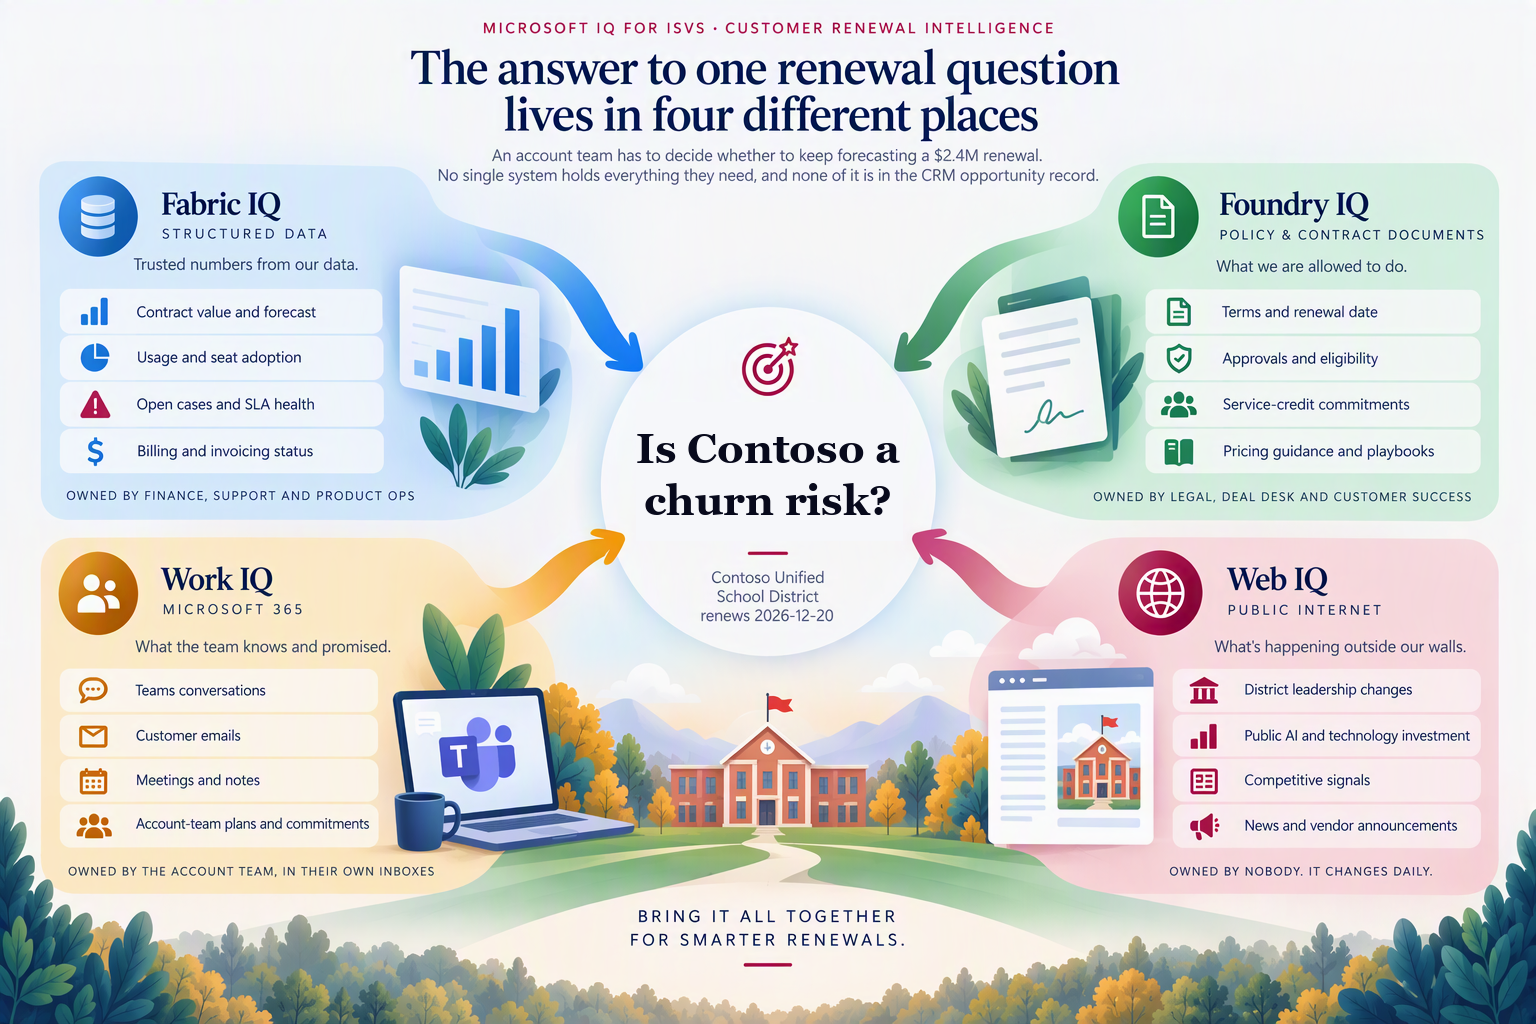
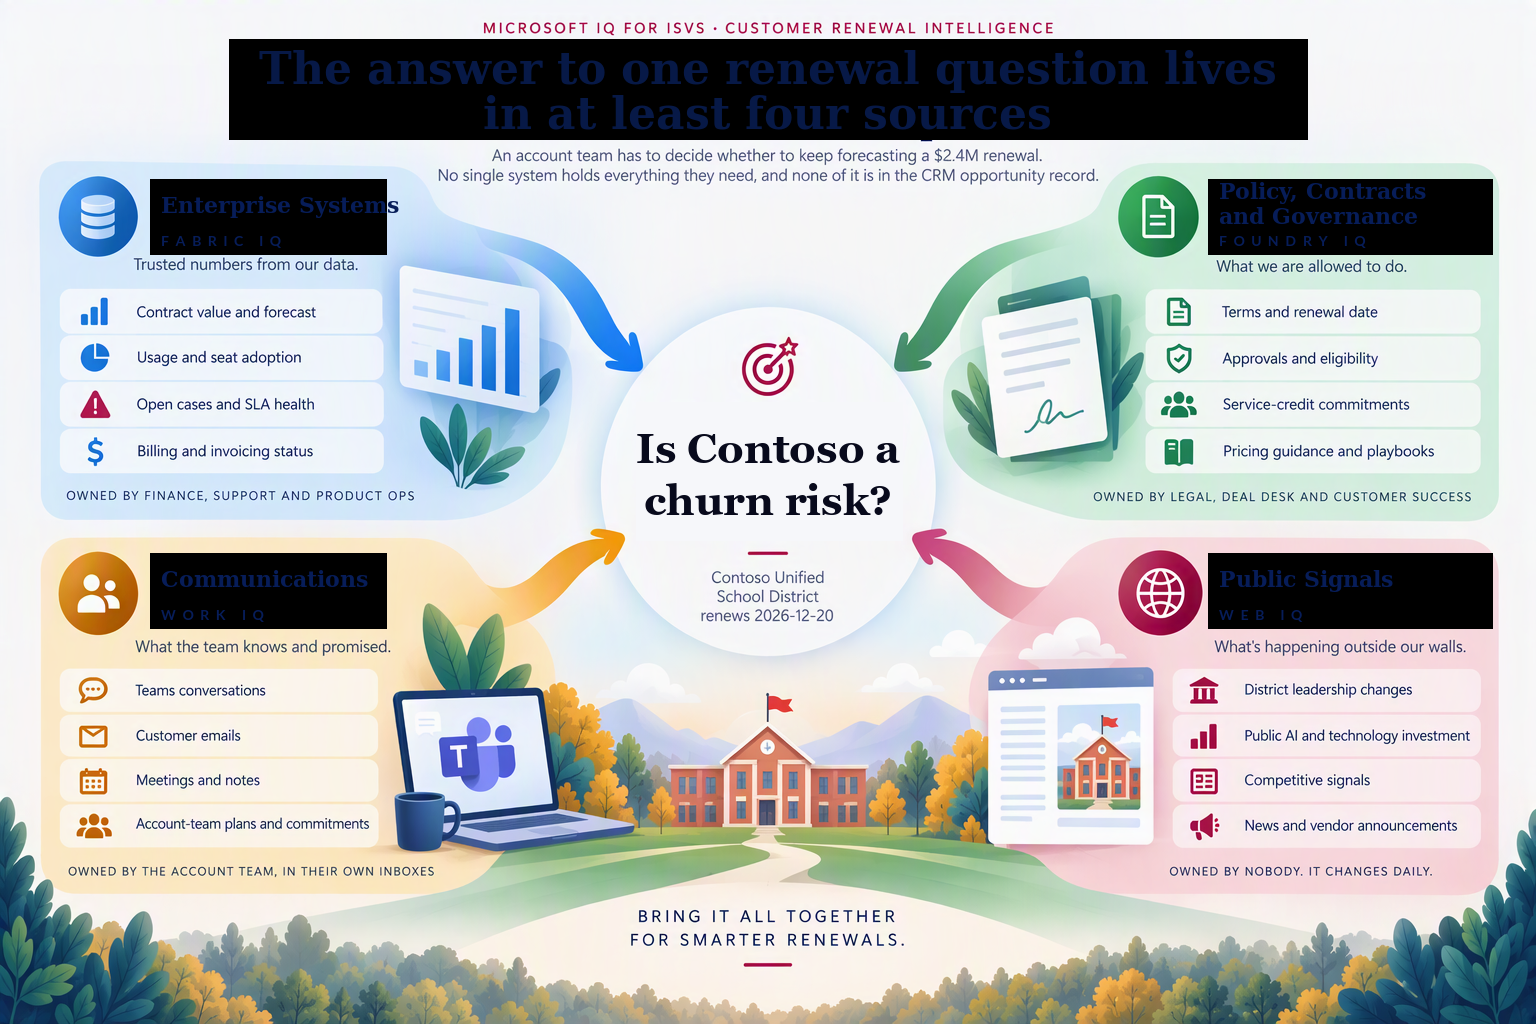
Update main graphic source labels

Changed region(s): [[0.0938, 0.0312, 1.0, 0.25], [0.7812, 0.5312, 1.0, 0.625], [0.0938, 0.5312, 0.25, 0.625]]

diff --git a/docs/isv-why-it-matters.html b/docs/isv-why-it-matters.html
@@ -169,7 +169,7 @@ h1 { font-size: 1.9rem; margin: 0.3rem 0 0.4rem; }
 <body>
 <div class="wrap">
   <div class="eyebrow">Microsoft IQ for ISVs · Customer renewal intelligence</div>
-  <h1>The answer to one renewal question lives in four different places</h1>
+  <h1>The answer to one renewal question lives in at least four sources</h1>
   <p class="sub">
     An account team has to decide whether to increase the forecast on a $2.4M renewal. No single system holds
     everything they need, and none of it is in the CRM opportunity record.
@@ -188,8 +188,8 @@ h1 { font-size: 1.9rem; margin: 0.3rem 0 0.4rem; }
 
   <div class="grid">
     <section class="card">
-      <h2>Fabric IQ</h2>
-      <span class="where">Fabric Lakehouse · structured data</span>
+      <h2>Enterprise Systems</h2>
+      <span class="where">Fabric IQ</span>
       <p class="role">What the numbers say: contract value, usage, support and billing.</p>
       <ul class="facts">
         <li><b>ARR $2.4M</b>, forecast <b>$2.2M</b></li>
@@ -202,8 +202,8 @@ h1 { font-size: 1.9rem; margin: 0.3rem 0 0.4rem; }
     </section>
 
     <section class="card">
-      <h2>Foundry IQ</h2>
-      <span class="where">Policy &amp; contract documents</span>
+      <h2>Policy, Contracts and Governance</h2>
+      <span class="where">Foundry IQ</span>
       <p class="role">What we are allowed to do: terms, approvals and playbooks.</p>
       <ul class="facts">
         <li>Contract: notice date, <b>uptime SLA</b>, service-credit eligibility</li>
@@ -216,8 +216,8 @@ h1 { font-size: 1.9rem; margin: 0.3rem 0 0.4rem; }
     </section>
 
     <section class="card">
-      <h2>Work IQ</h2>
-      <span class="where">Microsoft 365 · mail, meetings, Teams</span>
+      <h2>Communications</h2>
+      <span class="where">Work IQ</span>
       <p class="role">What the team knows and promised: the context nobody logs in CRM.</p>
       <ul class="facts">
         <li>Renewal forecast <b>huddle</b> meeting (2026-10-12)</li>
@@ -229,8 +229,8 @@ h1 { font-size: 1.9rem; margin: 0.3rem 0 0.4rem; }
     </section>
 
     <section class="card">
-      <h2>Web IQ</h2>
-      <span class="where">Public internet</span>
+      <h2>Public Signals</h2>
+      <span class="where">Web IQ</span>
       <p class="role">What changed outside our walls: the customer&rsquo;s own world.</p>
       <ul class="facts">
         <li>District leadership changes</li>

diff --git a/README.md b/README.md
@@ -8,7 +8,7 @@ The flagship scenario is **Customer Renewal and Expansion Intelligence** for the
 Contoso Unified School District account, with Fabrikam Unified School District as a positive expansion
 contrast in a five-school-district renewal portfolio.
 
-![Why this matters: one renewal question, four places the answer lives](docs/images/isv-why-it-matters.png?v=3)
+![Why this matters: one renewal question, at least four sources](docs/images/isv-why-it-matters.png?v=4)
 
 An [interactive version](docs/isv-why-it-matters.html) lists the specific data in each place.
 
